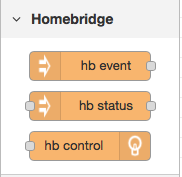
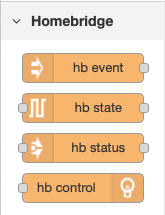
Documentation

diff --git a/HAP-NodeRed.html b/HAP-NodeRed.html
@@ -225,8 +225,9 @@
 
 
 <script type="text/x-red" data-help-name="hb-state">
-  <p>Event emitter node for Homebridge accessories.</p>
-  <p>This node represents a homebridge accessory/event and emits messages when the accessory state changes.</p>
+  <p>Statefull message passthru node.</p>
+  <p>This node allows the creation of a state resume flow.  When a true/On message is input, it is passed directly to the output.  When the first false/Off message is received, the output is the accessories On state from prior to the most recent true/On.  If a second false/off is received it is passed directly to output.</p>
+
 
   <h3>Outputs</h3>
   <dl class="message-properties">
@@ -247,9 +248,8 @@
       <dt>_rawEvent<span class="property-type">string</span></dt>
       <dd>Event as received from homebridge</dd>
   </dl>
-<h3>Details</h3>
-<p>Each Homebridge Event node, will emit a message containing the updated status of a single characteristic that has changed.</p>
-<p>For accessories with mulitple characteristics, a Homebridge Event node will need to be created for each characteristic you are interested in.</p>
+<h3>Where and why would you use this node?</h3>
+<p>I'm using this with a group of lights in a room, where I have either an automation to turn on all the lights for a short period of time ( ie arrive home turning on the lights around the door) or an Amazon Alexa.  And what it does is restore all the lights in the group to the state they where in, prior to being turned on.  So if you have a light on in a room, and you ask Alexa to turn on all the lights, then a few minutes later you can then ask her to turn them off, she will turn them all off except the one that was on previously.  If you ask her to turn off all the lights a second time, she will then turn them all off.</p>
 </script>
 
 <script type="text/javascript">

diff --git a/README.md b/README.md
@@ -24,6 +24,9 @@ The above Node-RED Flow, turns on my 'Outside Office' light when the powder room
       * [6 - Configure 'hb event' to receive updates from your Accessories](#6---configure-hb-event-to-receive-updates-from-your-accessories)
    * [Node-RED HAP-NodeRed Message Structure](#node-red-hap-nodered-message-structure)
       * [hb-Event](#hb-event)
+      * [hb-state](#hb-state)
+         * [input](#input)
+         * [output](#output)
       * [hb-Status](#hb-status)
       * [hb-control](#hb-control)
    * [Troubleshooting / DEBUG MODE](#troubleshooting--debug-mode)
@@ -39,7 +42,7 @@ This is an Alpha release of the ability to integrate Homebridge Accessories into
 
 ![Homebridge Nodes](docs/Homebridge%20Nodes.png)
 
-Three different node types are created, the first node "hb event" listens for changes to an accessory (ie on/off) and sends a message into Node-Red containing the updated accessory status.  The second node "hb status" allows you to poll an accessory for status. The third node "hb control" allows you to control a homebridge accessory.  Each node is tied to an individual characteristic of an accessory (ie on/off or brightness).  Using a dimmable light bulb as an example, you would configure two nodes for it.  The first for On/Off and the second for brightness.
+Four different node types are created, the first node "hb event" listens for changes to an accessory (ie on/off) and sends a message into Node-Red containing the updated accessory status.  The second node "hb state" holds the state of an accessory and supports creating a state restore function. The third node "hb status" allows you to poll an accessory for status. The forth node "hb control" allows you to control a homebridge accessory.  Each node is tied to an individual characteristic of an accessory (ie on/off or brightness).  Using a dimmable light bulb as an example, you would configure two nodes for it.  The first for On/Off and the second for brightness.
 
 ![Homebridge Nodes](docs/HAP%20Event%20Nodes.png)
 
@@ -60,6 +63,8 @@ With a plugin, you can see if it supports Real Time events, by opening the Home 
 * [x] - Documentation - Fix README with latest options
 * [ ] - Documentation/Naming - Normalize on Accessory, Service, Event and Characteristic
 * [x] - Hap-Node-Client is not reentrant, and multiple requests get lost.  Needs queuing at an instance level.
+* [ ] - Refactor interface with Hap-Node-Client, and split events into a dedicated evented socket connection and use the regular request module for everything else.
+* [ ] - Create an accessory based node approach
 
 ## Dropped items
 
@@ -136,6 +141,28 @@ msg = {
   Function: node.hbDevice.function,
   _confId: node.confId,
   _rawEvent: event
+};
+```
+
+## hb-state
+
+### input
+
+Based on the message input payload and state of the accessory the output changes.
+
+For true, the node just passes the message to output.  For the first false, the output is the state of the accessory from prior to the last turn on.  For the second false, the out is false.
+
+```
+msg = {
+  payload: true or false
+};
+```
+
+### output
+
+```
+msg = {
+  payload: true or false
 };
 ```
 
